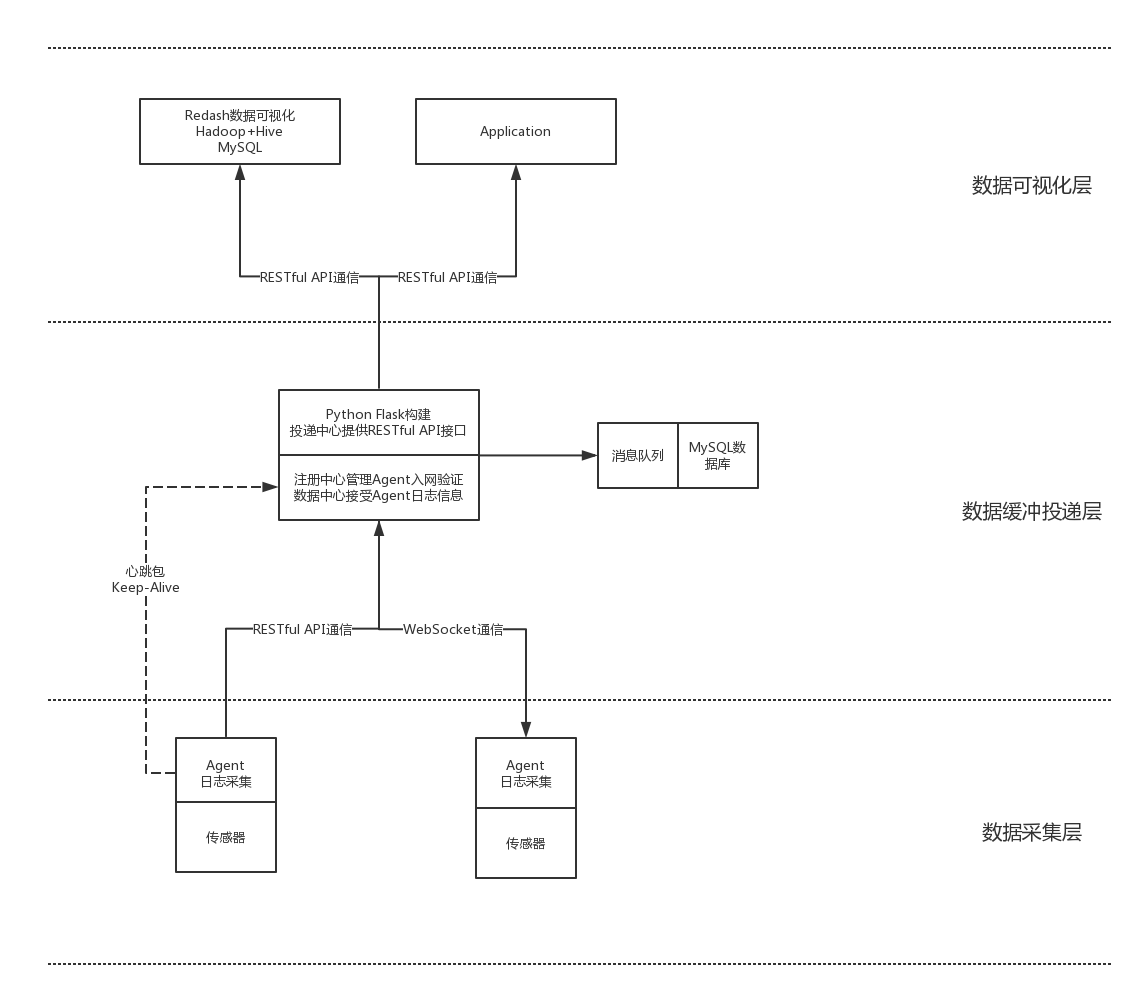
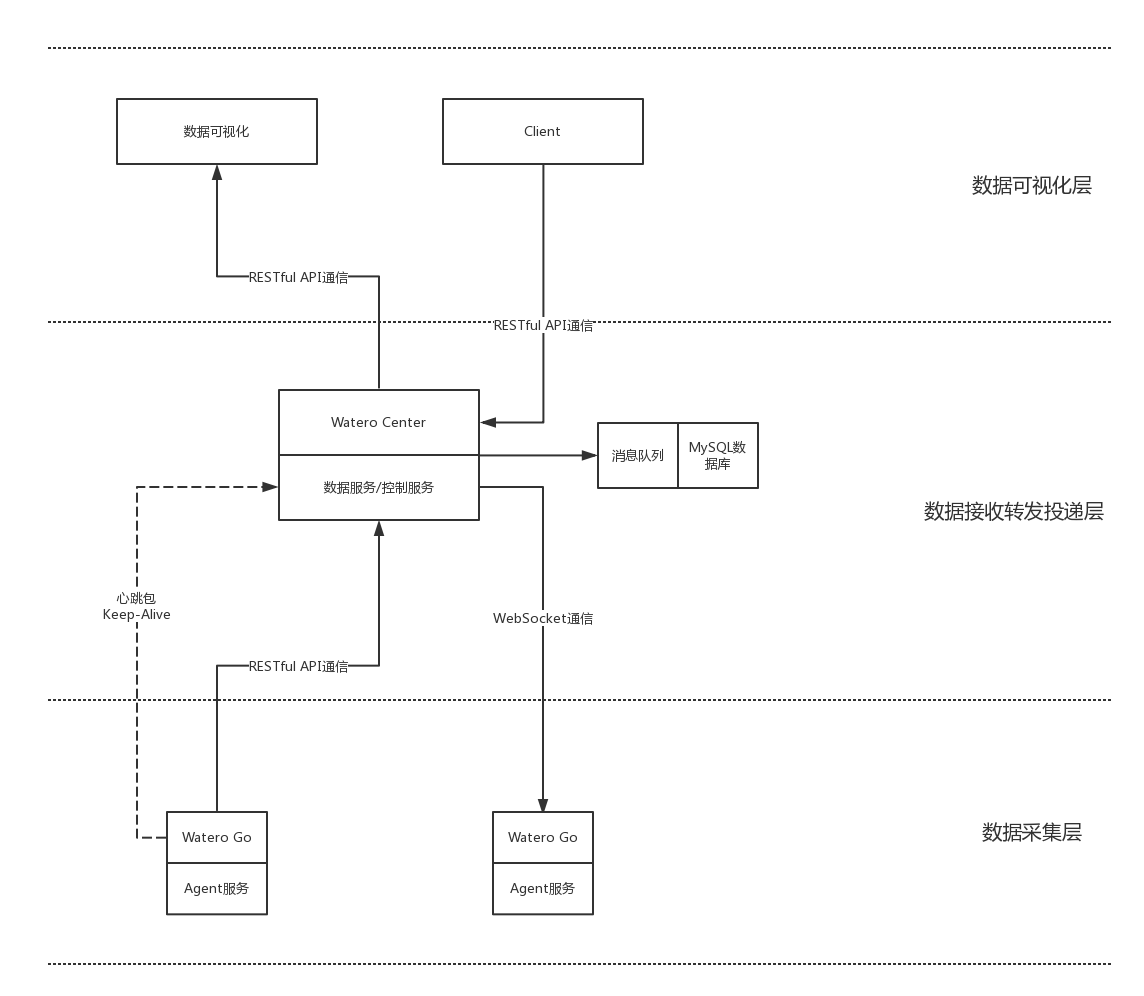
📝 更新系统架构图

diff --git a/README.md b/README.md
@@ -4,7 +4,7 @@
 [![](https://img.shields.io/github/license/Qinnnnnn/Watero_Center.svg)](https://github.com/Qinnnnnn/Watero_Center/blob/master/LICENSE)
 ![](https://img.shields.io/badge/python-3.7-blue.svg)
 * Watero Center是一项数据接收、转发和投递集成服务
-* [Watero Go](https://github.com/Qinnnnnn/Watero_Go)是Watero Center的Agent服务，用于采集节点数据上报Watero Center和接收Watero Center推送的控制信息
+* [Watero Go](https://github.com/Qinnnnnn/Watero_Go)是Watero Center部署于服务器的Agent服务，用于采集节点数据并上报Watero Center，同时接收Watero Center推送的控制信息
 
 ## 系统架构
 
